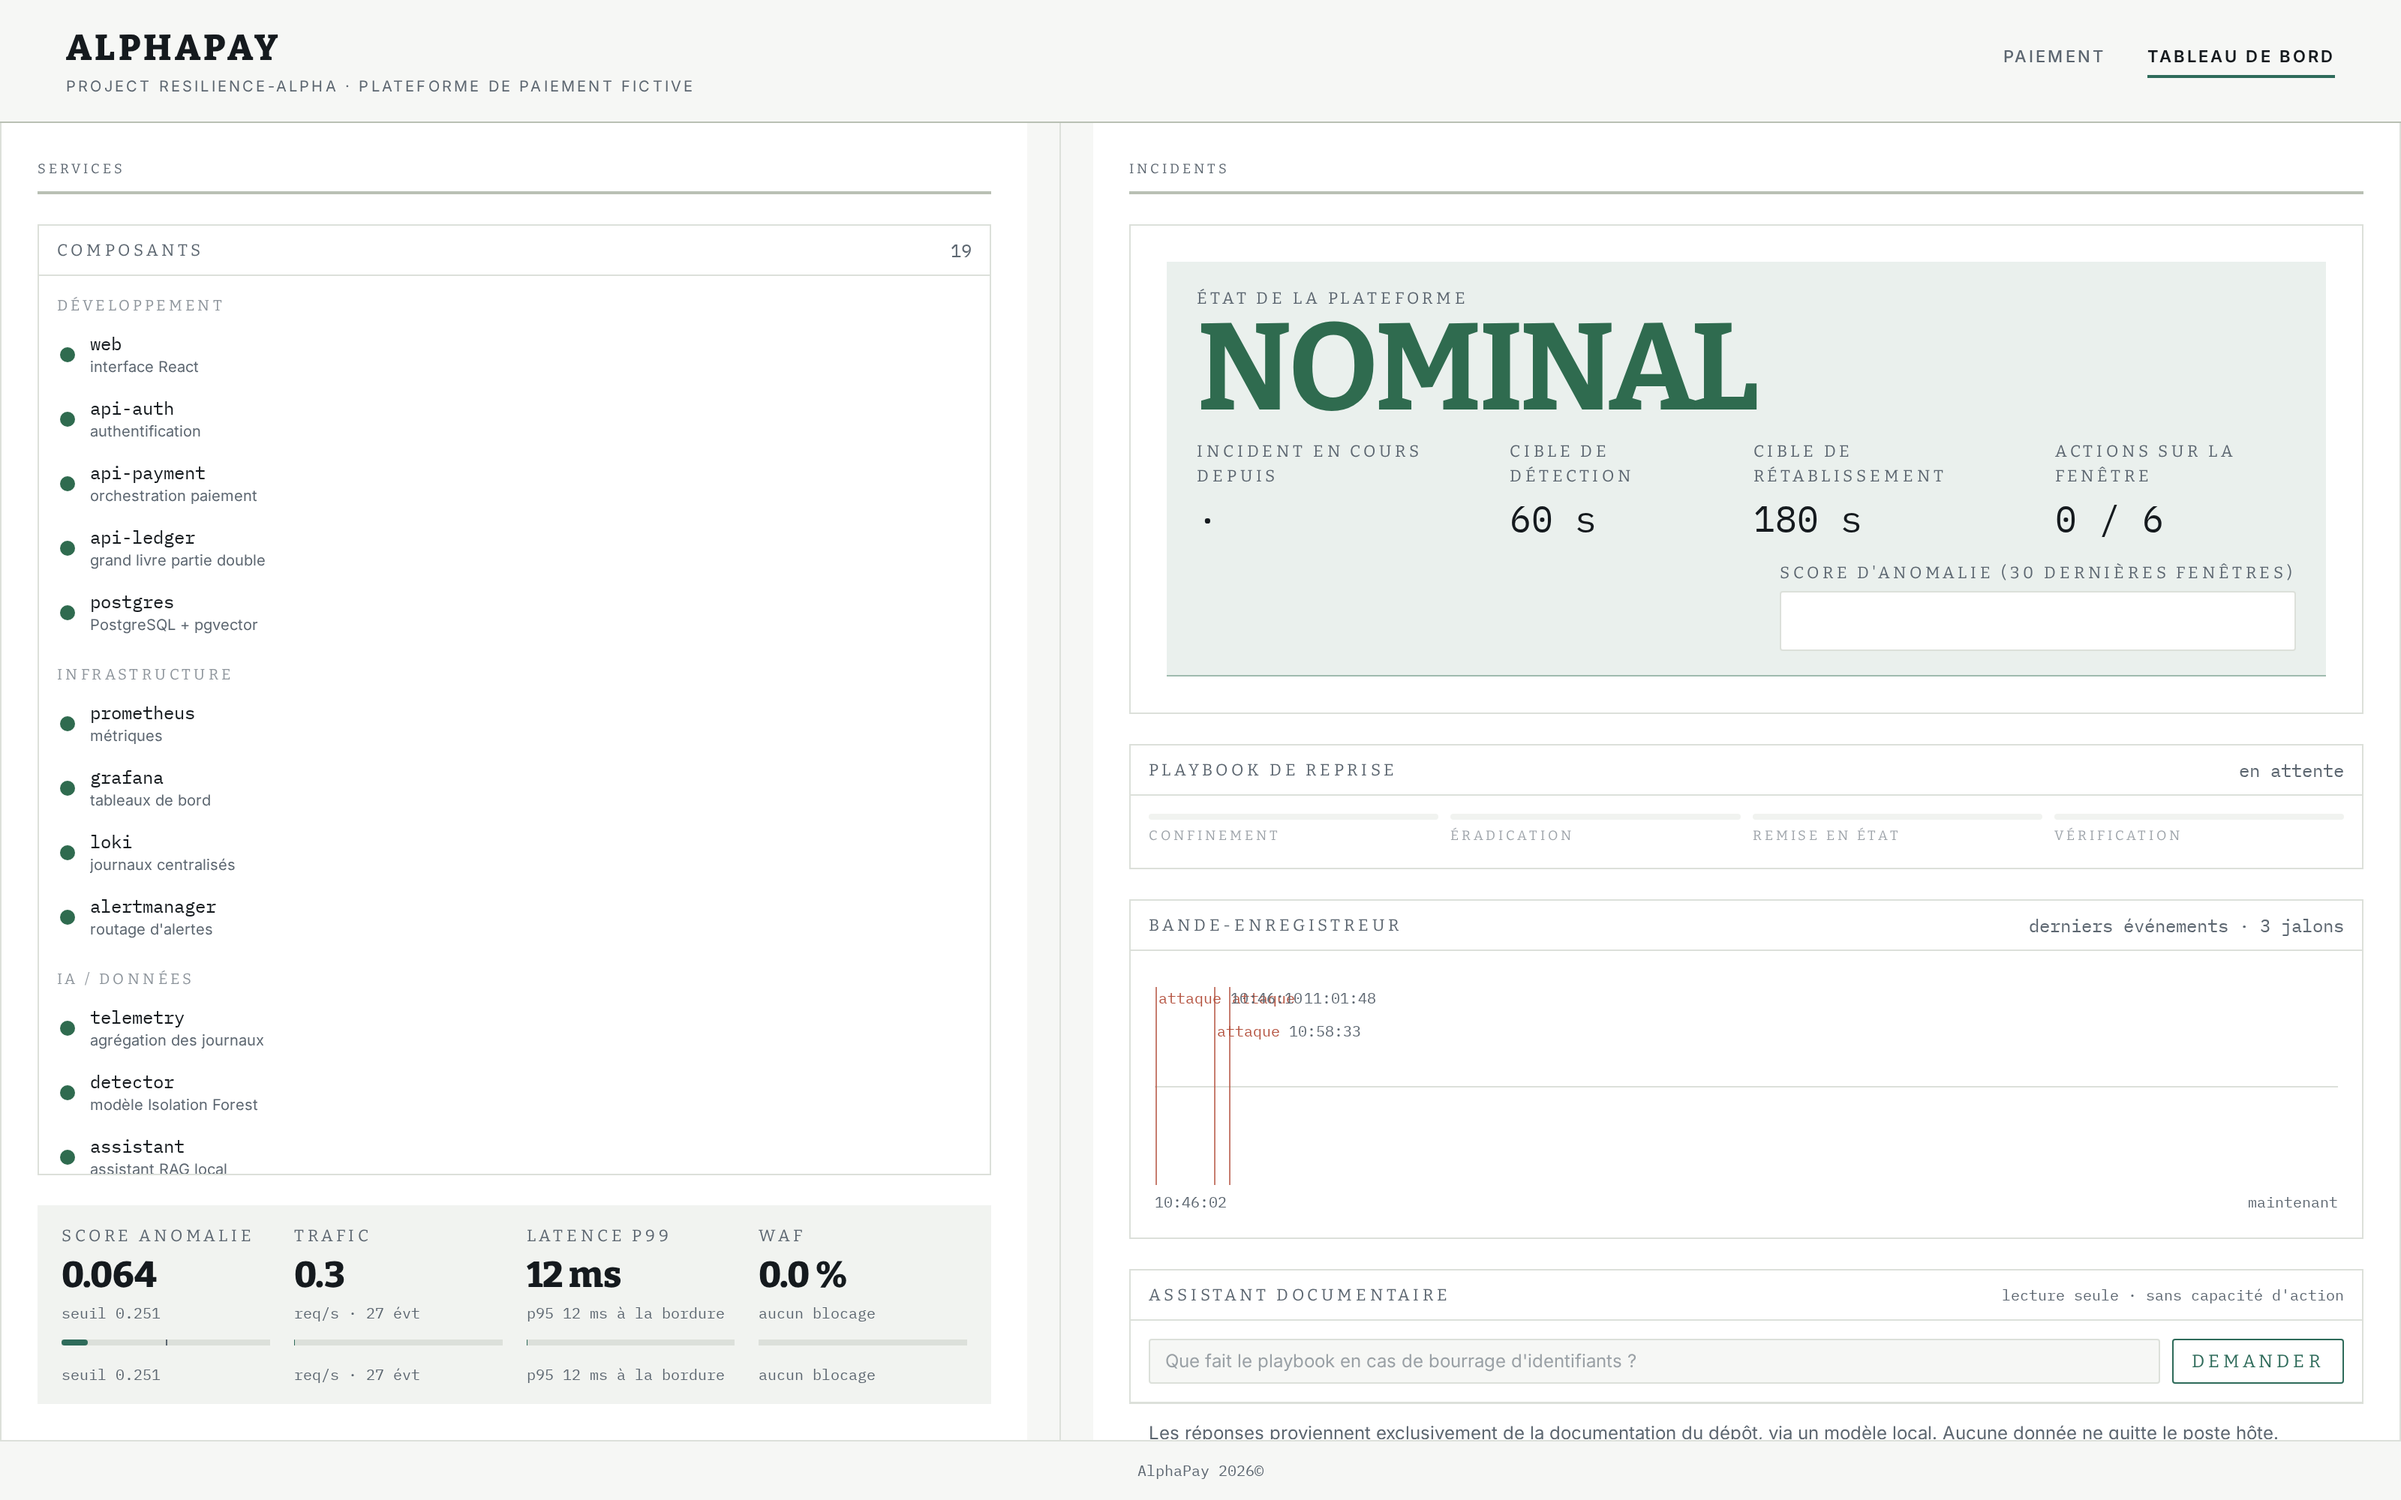
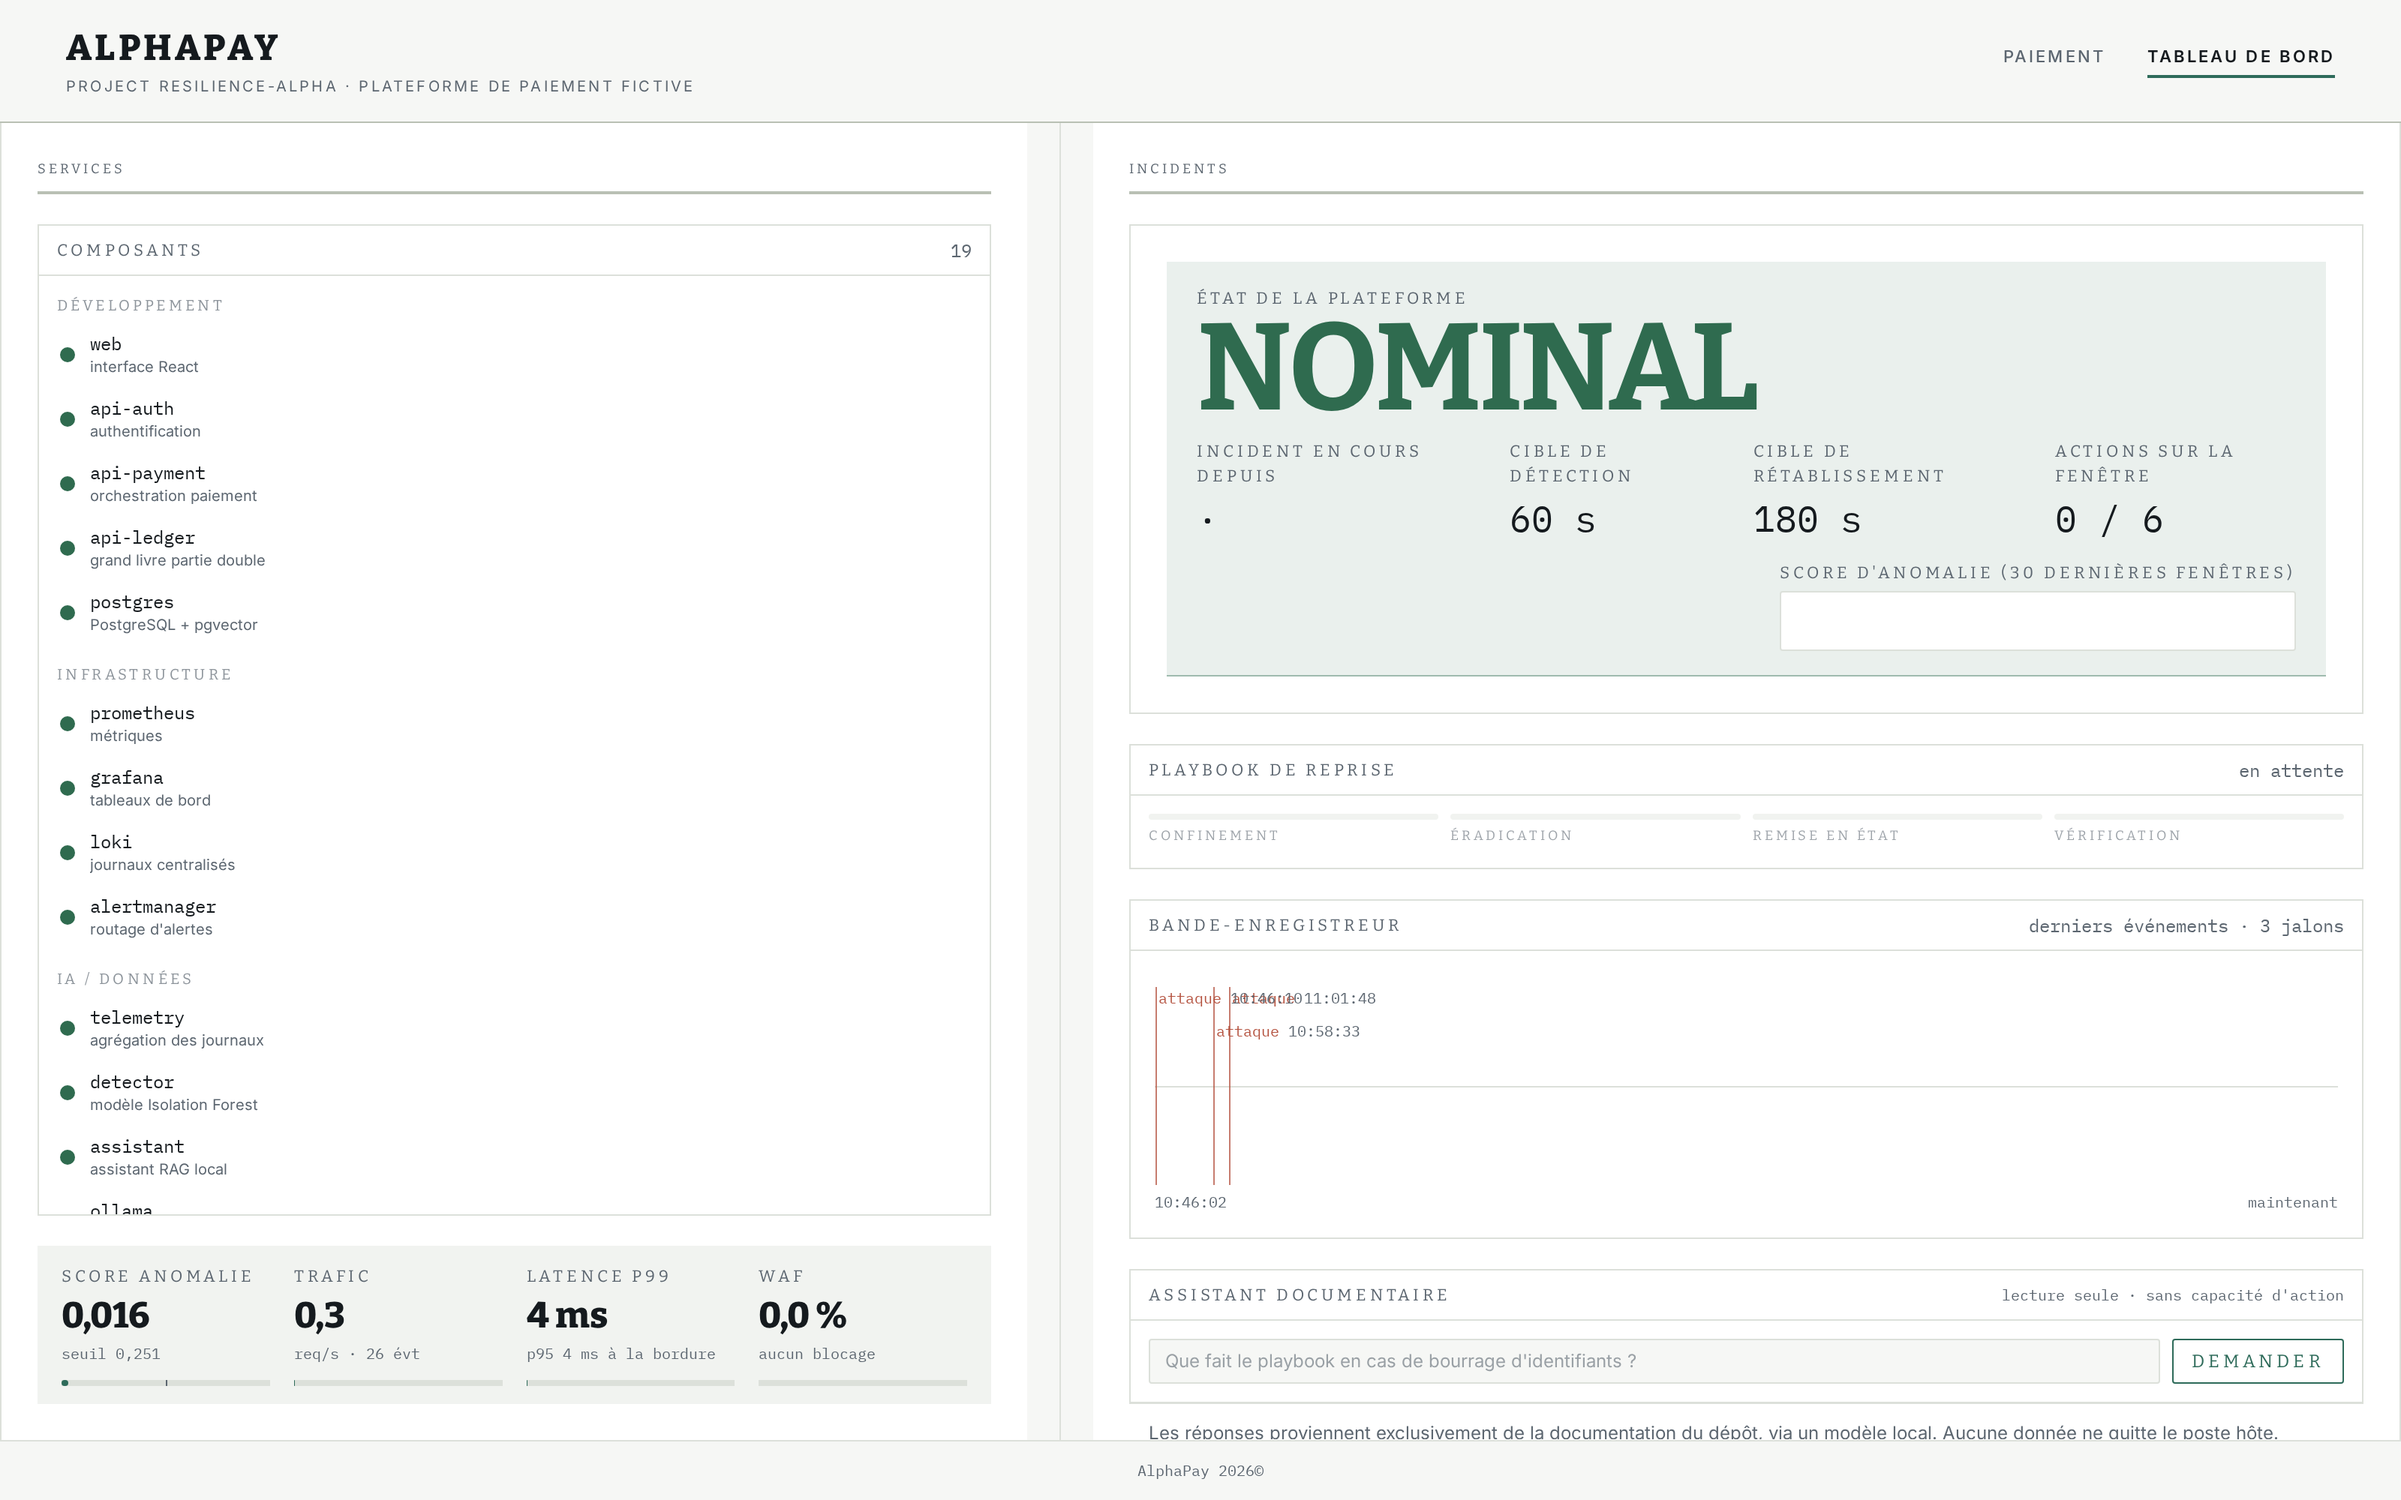
Mesures : suppression du detail affiche en double, decimales a la virgule

diff --git a/frontend/src/components/MetricBands.tsx b/frontend/src/components/MetricBands.tsx
@@ -28,15 +28,15 @@ export function BandesMesures({
     <div className="grid grid-cols-2 gap-4 bg-surface-2 px-4 py-3 xl:grid-cols-4">
       <Bande
         titre="Score anomalie"
-        valeur={score.toFixed(3)}
-        sous={`seuil ${seuil.toFixed(3)}`}
+        valeur={score.toFixed(3).replace(".", ",")}
+        sous={`seuil ${seuil.toFixed(3).replace(".", ",")}`}
         ratio={ratio}
         repere={seuilRatio}
         alerte={detection?.anomalous ?? false}
       />
       <Bande
         titre="Trafic"
-        valeur={valeurFenetre(fenetre, "requests_per_second").toFixed(1)}
+        valeur={valeurFenetre(fenetre, "requests_per_second").toFixed(1).replace(".", ",")}
         sous={`req/s · ${fenetre?.events_in_window ?? 0} évt`}
         ratio={Math.min(valeurFenetre(fenetre, "requests_per_second") / 120, 1)}
       />
@@ -48,7 +48,7 @@ export function BandesMesures({
       />
       <Bande
         titre="WAF"
-        valeur={`${(valeurFenetre(fenetre, "waf_block_ratio") * 100).toFixed(1)} %`}
+        valeur={`${(valeurFenetre(fenetre, "waf_block_ratio") * 100).toFixed(1).replace(".", ",")} %`}
         sous={
           valeurFenetre(fenetre, "waf_block_ratio") > 0
             ? `injection ${(valeurFenetre(fenetre, "injection_token_ratio") * 100).toFixed(1)} % · XSS ${(valeurFenetre(fenetre, "xss_token_ratio") * 100).toFixed(1)} %`
@@ -98,7 +98,6 @@ function Bande({
           />
         )}
       </div>
-      <div className="mt-1.5 text-[0.625rem] font-mono text-ink-dim">{sous}</div>
     </div>
   );
 }
